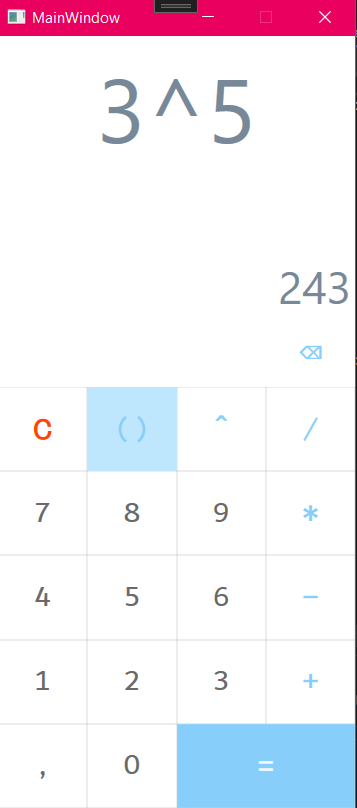
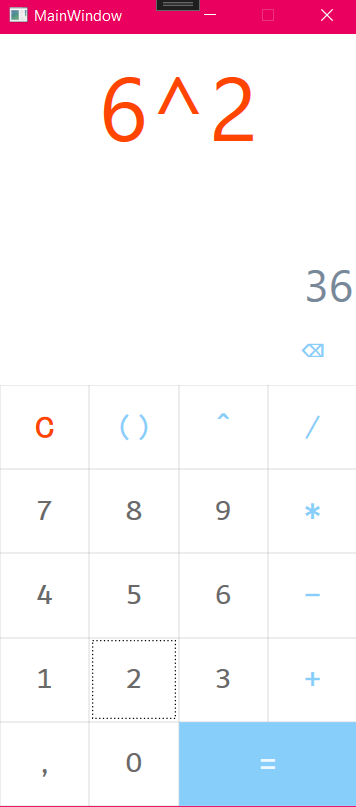
color of input text change

diff --git a/Calculator/CalculatorView.xaml b/Calculator/CalculatorView.xaml
@@ -46,7 +46,7 @@
 					<RowDefinition/>
 				</Grid.RowDefinitions>
 				<Viewbox MaxHeight="100" Grid.Row="0" Stretch="Uniform" HorizontalAlignment="Stretch" VerticalAlignment="Stretch">
-					<TextBox Name="InputTextBox"  BorderBrush="Transparent" TextAlignment="Center"   FontSize="35" Foreground="LightSlateGray" Text="{Binding Expression, Mode=OneWay}" TextWrapping="WrapWithOverflow" />
+					<TextBox Name="InputTextBox"  BorderBrush="Transparent" TextAlignment="Center"   FontSize="35" Foreground="OrangeRed" Text="{Binding Expression, Mode=OneWay}" TextWrapping="WrapWithOverflow" />
 				</Viewbox>
 				<Viewbox MaxHeight="50" Grid.Row="1" Stretch="Uniform" HorizontalAlignment="Right" VerticalAlignment="Bottom">
 					<TextBox Name="ResultTextBox" VerticalContentAlignment="Bottom" HorizontalContentAlignment="Right" BorderBrush="Transparent" FontSize="35"  Foreground="LightSlateGray" Text="{Binding Result, Mode=OneWay}" TextWrapping="WrapWithOverflow"/>
